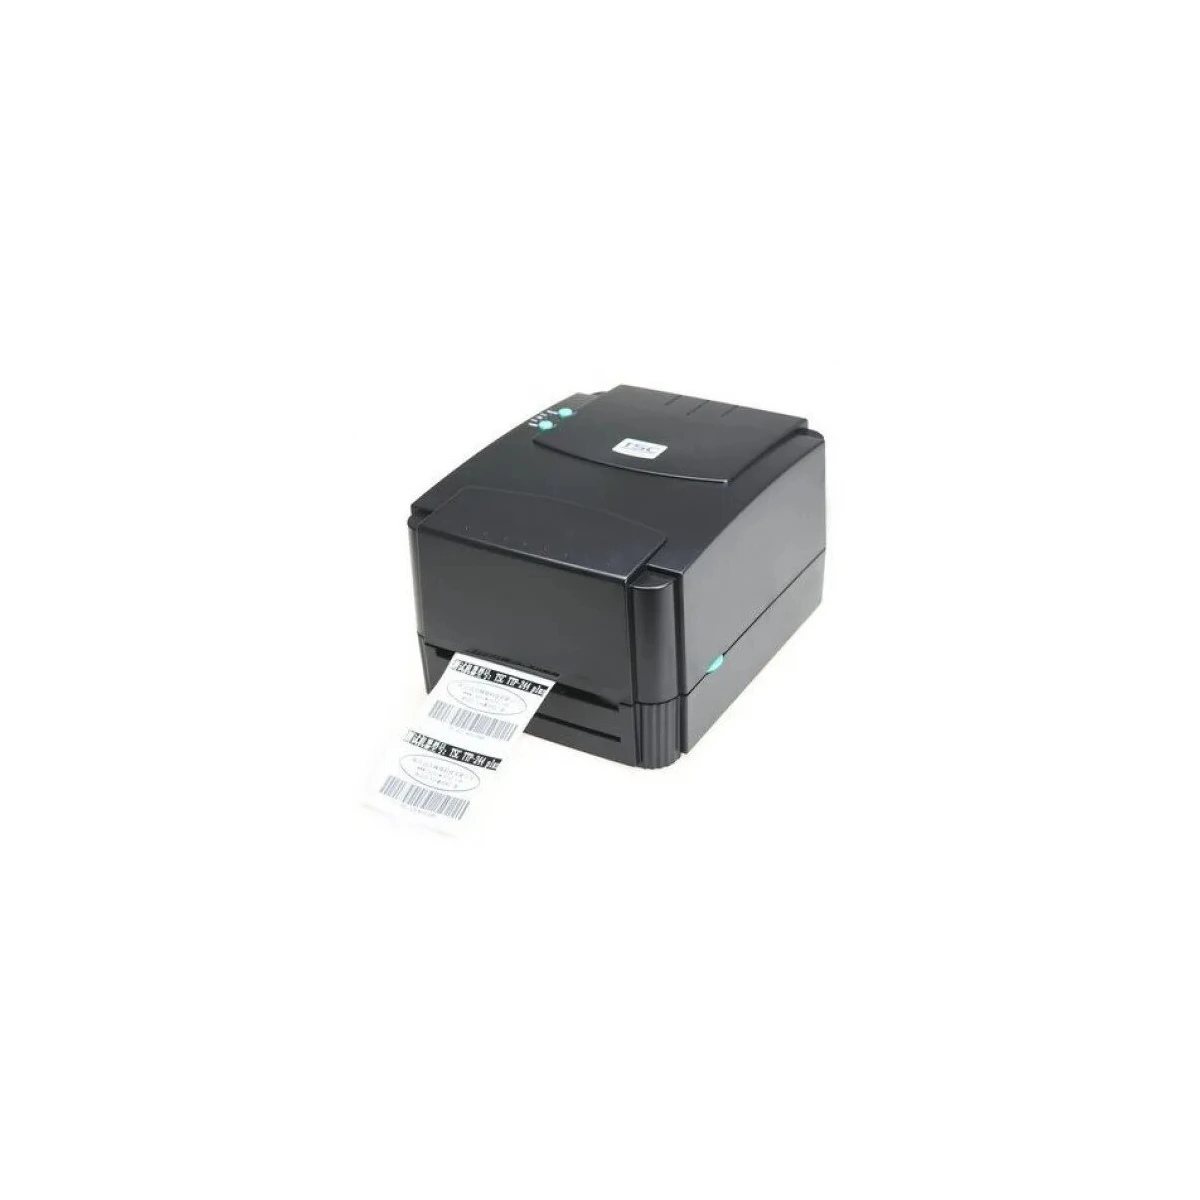
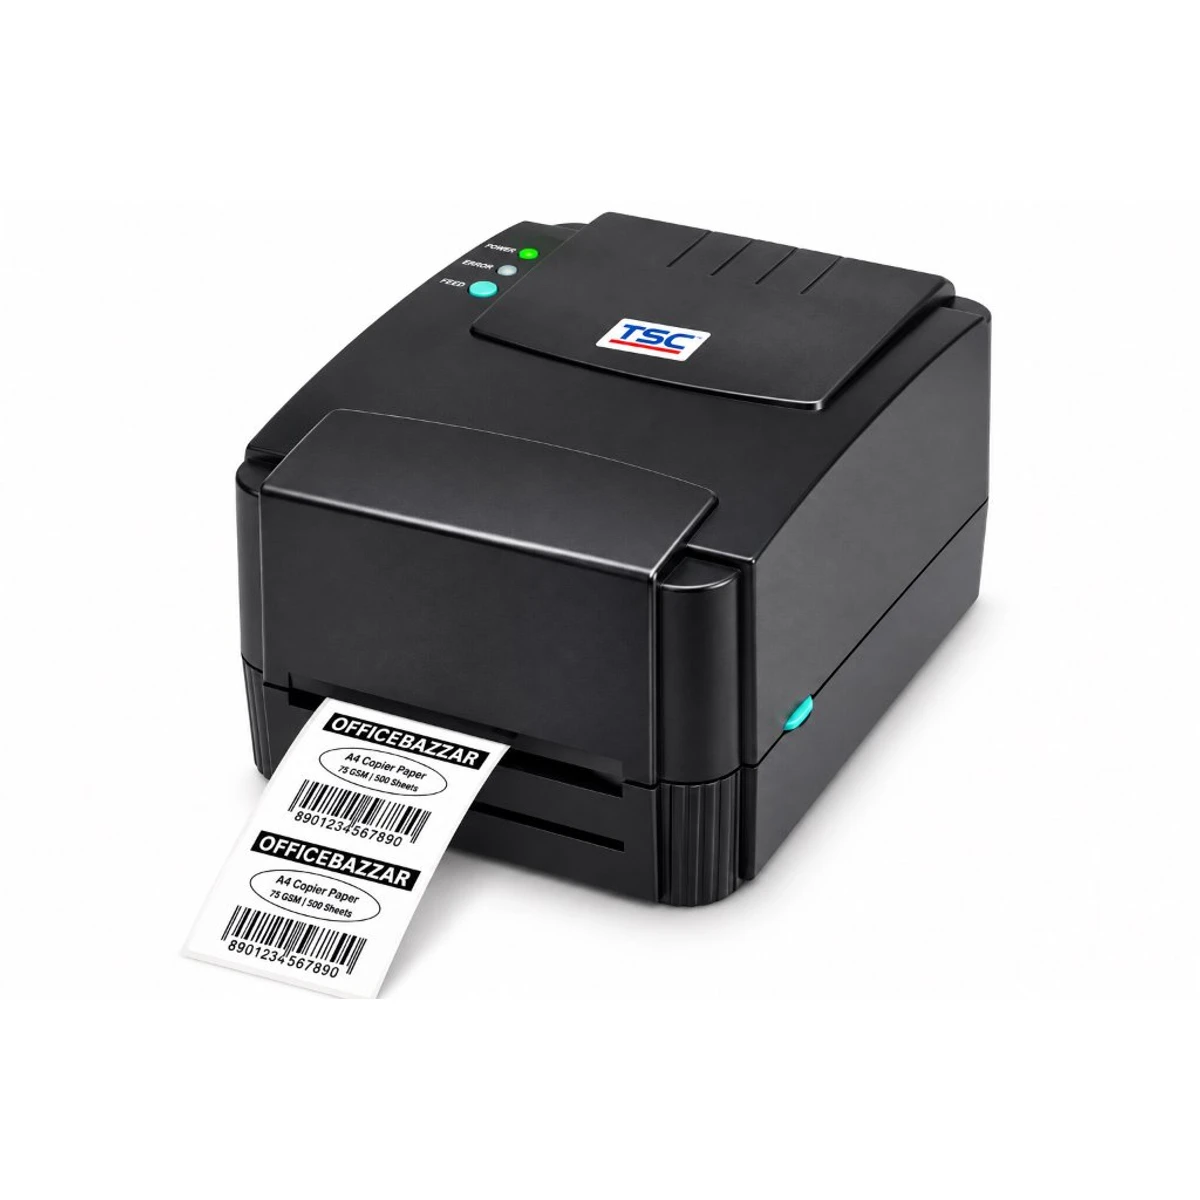
fix(images): replace product images for 3 SKUs (Barcode Printer, Harpic Toilet Cleaner, Lizol Liquid Cleaner) and bump image version to v27

Changed region(s): [[0.185, 0.1542, 0.8325, 0.8325]]

diff --git a/scripts/verify_cleaner_image_replacements.js b/scripts/verify_cleaner_image_replacements.js
@@ -1,0 +1,124 @@
+const fs = require('fs');
+const path = require('path');
+const crypto = require('crypto');
+const sharp = require('sharp');
+
+// Parse image.ts
+const imageTsContent = fs.readFileSync('src/lib/utils/image.ts', 'utf8');
+const versionMatch = imageTsContent.match(/CATALOG_IMAGE_VERSION\s*=\s*['"]([^'"]+)['"]/);
+const CATALOG_IMAGE_VERSION = versionMatch ? versionMatch[1] : null;
+
+function getVersionedImageUrl(url) {
+  if (!url) return `/assets/placeholder-product.svg?v=${CATALOG_IMAGE_VERSION}`;
+  if (
+    url.includes('?v=') ||
+    url.startsWith('http://') ||
+    url.startsWith('https://') ||
+    url.startsWith('data:')
+  ) {
+    return url;
+  }
+  return `${url}?v=${CATALOG_IMAGE_VERSION}`;
+}
+
+const expectedMappings = [
+  {
+    idx: 1,
+    name: 'Barcode Printer',
+    sku: 'OB-COM-1040',
+    slug: 'barcode-printer',
+    expectedImage: '/assets/products/catalog_2026/OB-COM-1040.webp'
+  },
+  {
+    idx: 2,
+    name: 'Harpic Toilet Cleaner',
+    sku: 'OB-CLE-1093',
+    slug: 'harpic-toilet-cleaner',
+    expectedImage: '/assets/products/catalog_2026/OB-CLE-1093.webp'
+  },
+  {
+    idx: 3,
+    name: 'Lizol Liquid Cleaner',
+    sku: 'OB-CLE-1092',
+    slug: 'lizol-liquid-cleaner',
+    expectedImage: '/assets/products/catalog_2026/OB-CLE-1092.webp'
+  }
+];
+
+async function runVerification() {
+  console.log('===============================================================');
+  console.log(' AUTOMATED 3-PRODUCT IMAGE REPLACEMENT CONSISTENCY TEST');
+  console.log('===============================================================\n');
+
+  let passedTests = 0;
+  let totalTests = 0;
+
+  function assert(condition, message) {
+    totalTests++;
+    if (condition) {
+      passedTests++;
+      console.log(`[PASS] ${message}`);
+    } else {
+      console.error(`[FAIL] ${message}`);
+      process.exitCode = 1;
+    }
+  }
+
+  // 1. Verify CATALOG_IMAGE_VERSION
+  assert(
+    CATALOG_IMAGE_VERSION === '20261113_v27_bulk_3_image_replacement',
+    `CATALOG_IMAGE_VERSION is updated to '20261113_v27_bulk_3_image_replacement' (found: ${CATALOG_IMAGE_VERSION})`
+  );
+
+  // 2. Read catalog.ts content and verify SKU-to-image mappings in catalog
+  const catalogContent = fs.readFileSync('src/lib/data/catalog.ts', 'utf8');
+  const oldReport = JSON.parse(fs.readFileSync('scratch/old_cleaner_images_report.json', 'utf8'));
+
+  for (const item of expectedMappings) {
+    console.log(`\n--- Verifying [${item.sku}] ${item.name} ---`);
+
+    // Verify catalog entry
+    const skuIndex = catalogContent.indexOf(`"sku": "${item.sku}"`);
+    assert(skuIndex !== -1, `SKU ${item.sku} exists in catalog.ts`);
+
+    const imgIndex = catalogContent.indexOf(`"${item.expectedImage}"`);
+    assert(imgIndex !== -1, `Expected image ${item.expectedImage} referenced in catalog.ts`);
+
+    // Check disk file
+    const diskPath = path.join('public', item.expectedImage);
+    assert(fs.existsSync(diskPath), `Physical file exists at ${diskPath}`);
+
+    const fileBuf = fs.readFileSync(diskPath);
+    assert(fileBuf.length > 5000, `File size is substantial (${(fileBuf.length / 1024).toFixed(1)} KB)`);
+
+    // Decode with sharp
+    const meta = await sharp(diskPath).metadata();
+    assert(meta.format === 'webp', `File format is valid WebP`);
+    assert(meta.width === 1200 && meta.height === 1200, `Dimensions are 1200x1200 square`);
+
+    // Compare with old hash
+    const currentHash = crypto.createHash('sha256').update(fileBuf).digest('hex').substring(0, 16);
+    const oldItem = oldReport.find(o => o.sku === item.sku);
+    assert(currentHash !== oldItem.oldHash, `Hash has changed from old (${oldItem.oldHash} -> ${currentHash})`);
+
+    // Verify versioned URL generator
+    const versionedUrl = getVersionedImageUrl(item.expectedImage);
+    assert(
+      versionedUrl === `${item.expectedImage}?v=${CATALOG_IMAGE_VERSION}`,
+      `Versioned URL includes ?v=${CATALOG_IMAGE_VERSION}`
+    );
+  }
+
+  console.log(`\n===============================================================`);
+  console.log(` VERIFICATION SUMMARY: ${passedTests}/${totalTests} TESTS PASSED`);
+  console.log(`===============================================================\n`);
+
+  if (passedTests === totalTests) {
+    console.log('✓ All 3 product images are verified, consistent, and ready for deployment.');
+  }
+}
+
+runVerification().catch(err => {
+  console.error('Fatal error in verification:', err);
+  process.exit(1);
+});

diff --git a/src/lib/utils/image.ts b/src/lib/utils/image.ts
@@ -3,7 +3,7 @@
  * Appends a version query string (?v=...) to all internal product image URLs
  * so that updated images immediately bypass stale edge and browser caches upon deployment.
  */
-export const CATALOG_IMAGE_VERSION = '20261112_v26_bulk_3_image_replacement';
+export const CATALOG_IMAGE_VERSION = '20261113_v27_bulk_3_image_replacement';
 
 export function getVersionedImageUrl(url: string | null | undefined): string {
   if (!url) return `/assets/placeholder-product.svg?v=${CATALOG_IMAGE_VERSION}`;
